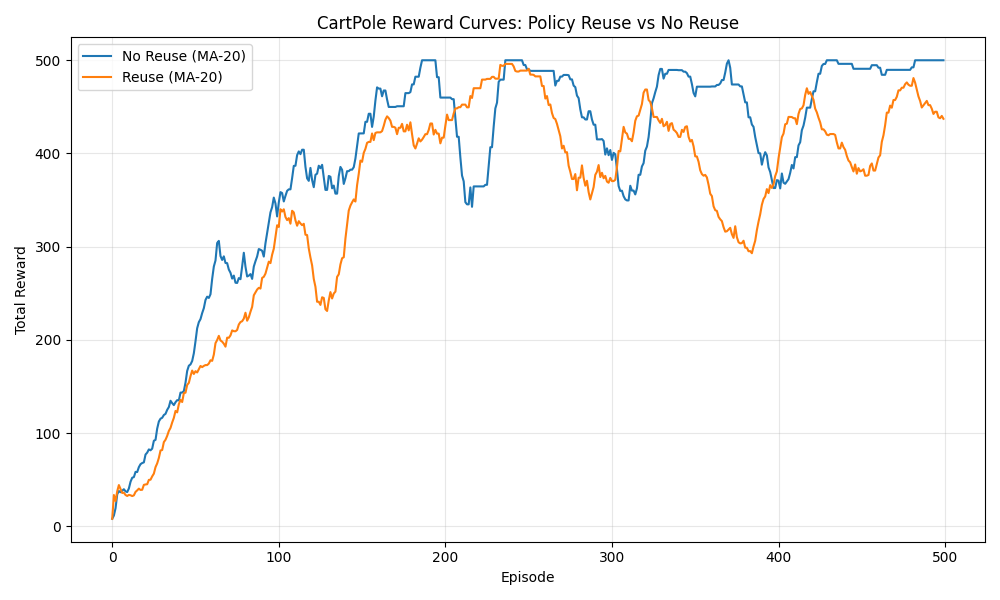
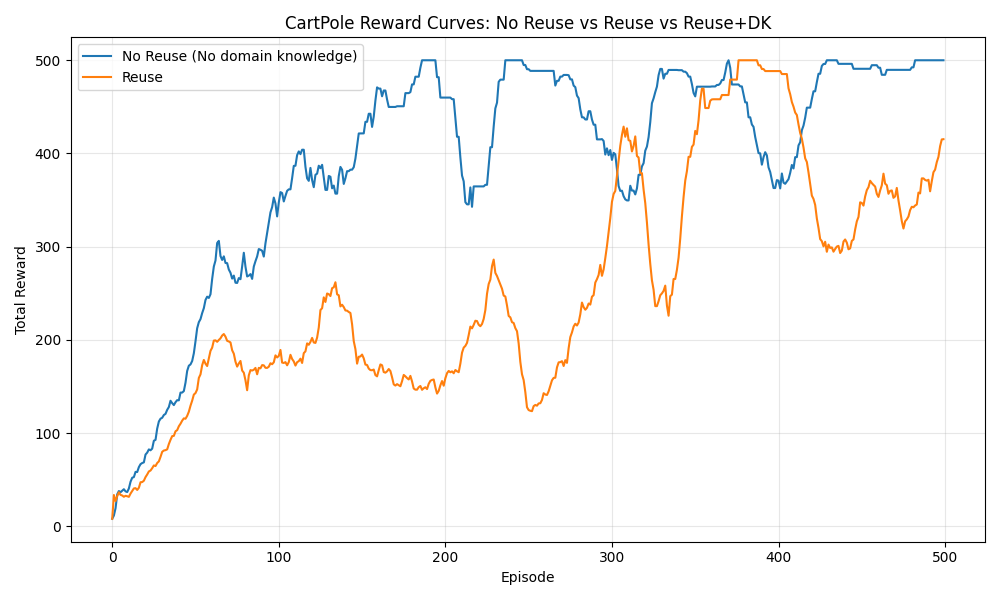
adding domain knowledge policy

diff --git a/train.py b/train.py
@@ -35,6 +35,20 @@ def monte_carlo_action_probs(policy: PolicyNetwork, state: torch.Tensor, num_sam
     samples = [policy(state) for _ in range(num_samples)]
     return torch.stack(samples).mean(0)
 
+def domain_knowledge_action_probs(state: torch.Tensor) -> torch.Tensor:
+    """
+    CartPole domain-knowledge controller expressed as a deterministic policy.
+
+    Uses a linear stabilizing score over [x, x_dot, theta, theta_dot] where
+    angle terms dominate. Returns one-hot probabilities over [left, right].
+    """
+    # State order for CartPole-v1: [cart_pos, cart_vel, pole_angle, pole_ang_vel]
+    cart_pos, cart_vel, pole_angle, pole_ang_vel = state
+    score = 0.5 * cart_pos + 1.0 * cart_vel + 8.0 * pole_angle + 1.5 * pole_ang_vel
+    probs = torch.zeros(2, dtype=state.dtype, device=state.device)
+    # Gym CartPole action mapping: 0=left, 1=right
+    probs[1 if score > 0 else 0] = 1.0
+    return probs
 
 def _policy_distance(policy_a: PolicyNetwork, policy_b: PolicyNetwork) -> float:
     """
@@ -109,6 +123,7 @@ def update_policy_bank(bank,
 
 
 def train(policy_reuse: bool = False,
+          use_domain_knowledge: bool = False,
           env_name: str = 'CartPole-v1',
           seed: int = 1234,
           reservoir_size: int = 500,
@@ -123,7 +138,8 @@ def train(policy_reuse: bool = False,
     Train the policy network using REINFORCE.
 
     If policy_reuse=True, train a mixture policy over a bounded bank of previous
-    policies plus the current policy, with learnable reuse probabilities.
+    policies plus the current policy (and optionally a fixed domain-knowledge
+    policy), with learnable reuse probabilities.
 
     Returns:
         reward_sums: list[float], per-episode total rewards.
@@ -153,8 +169,10 @@ def train(policy_reuse: bool = False,
     reuse_optimizer = None
     if policy_reuse:
         # Persistent logits/optimizer: we keep one set for the whole run.
-        # Slots [0:max_policy_bank_size) are for old policies, slot [-1] is current policy.
-        reuse_logits = torch.nn.Parameter(torch.zeros(max_policy_bank_size + 1, device=device))
+        # Slots [0:max_policy_bank_size) are for old policies.
+        # Next slot is current policy. Optional final slot is DK policy.
+        extra_slots = 1 + int(use_domain_knowledge)
+        reuse_logits = torch.nn.Parameter(torch.zeros(max_policy_bank_size + extra_slots, device=device))
         reuse_optimizer = Adam([reuse_logits], lr=lr)
 
     reward_sums = []
@@ -190,10 +208,15 @@ def train(policy_reuse: bool = False,
                 # Current policy remains differentiable.
                 current_probs = monte_carlo_action_probs(policy, state, num_samples)
                 candidate_probs.append(current_probs)
+
+                if use_domain_knowledge:
+                    candidate_probs.append(domain_knowledge_action_probs(state))
+
                 candidate_probs = torch.stack(candidate_probs)
 
-                # Use only active logits: one per bank policy plus one for current policy.
-                active_count = len(policy_bank) + 1
+                # Use only active logits: one per bank policy plus current policy,
+                # and optionally one fixed DK policy.
+                active_count = len(policy_bank) + 1 + int(use_domain_knowledge)
                 active_logits = reuse_logits[:active_count]
                 mix_weights = torch.softmax(active_logits, dim=0)
                 action_probs = torch.sum(mix_weights.unsqueeze(1) * candidate_probs, dim=0)
@@ -280,21 +303,40 @@ def train(policy_reuse: bool = False,
 if __name__ == '__main__':
     max_policy_bank_size = 10
 
-    policy_reuse = True
-    reward_sums_reuse = train(policy_reuse=policy_reuse, max_policy_bank_size=max_policy_bank_size)
+    data = np.load('results/reward_sums.npz')
 
-    policy_reuse = False
-    reward_sums_no_reuse = train(policy_reuse=policy_reuse, max_policy_bank_size=max_policy_bank_size)
+    # reward_sums_reuse = train(
+    #     policy_reuse=True,
+    #     use_domain_knowledge=False,
+    #     max_policy_bank_size=max_policy_bank_size,
+    # )
+    reward_sums_reuse = data['reuse']
+
+    # reward_sums_no_reuse = train(
+    #     policy_reuse=False,
+    #     use_domain_knowledge=False,
+    #     max_policy_bank_size=max_policy_bank_size,
+    # )
+    reward_sums_no_reuse = data['no_reuse']
+
+    reward_sums_reuse_dk = train(
+        policy_reuse=True,
+        use_domain_knowledge=True,
+        max_policy_bank_size=max_policy_bank_size,
+    )
 
     window = 20
     smoothed_no_reuse = moving_average(reward_sums_no_reuse, window=window)
     smoothed_reuse = moving_average(reward_sums_reuse, window=window)
+    smoothed_reuse_dk = moving_average(reward_sums_reuse_dk, window=window)
 
     np.savez('results/reward_sums.npz',
              no_reuse=reward_sums_no_reuse,
              reuse=reward_sums_reuse,
+             reuse_dk=reward_sums_reuse_dk,
              smoothed_no_reuse=smoothed_no_reuse,
-             smoothed_reuse=smoothed_reuse)
+             smoothed_reuse=smoothed_reuse,
+             smoothed_reuse_dk=smoothed_reuse_dk)
     print(f'Saved raw and smoothed reward sums to results/reward_sums.npz')
 
     plt.figure(figsize=(10, 6))
@@ -302,9 +344,10 @@ if __name__ == '__main__':
     plt.plot(smoothed_no_reuse, label=f'No Reuse (No domain knowledge)', color='tab:blue')
     # plt.plot(reward_sums_reuse, alpha=0.25, label='Reuse (raw)', color='tab:orange')
     plt.plot(smoothed_reuse, label=f'Reuse', color='tab:orange')
+    # plt.plot(smoothed_reuse_dk, label='Reuse + DK policy', color='tab:green')
     plt.xlabel('Episode')
     plt.ylabel('Total Reward')
-    plt.title('CartPole Reward Curves: Policy Reuse vs No Reuse')
+    plt.title('CartPole Reward Curves: No Reuse vs Reuse vs Reuse+DK')
     plt.legend()
     plt.grid(alpha=0.3)
     plt.tight_layout()
